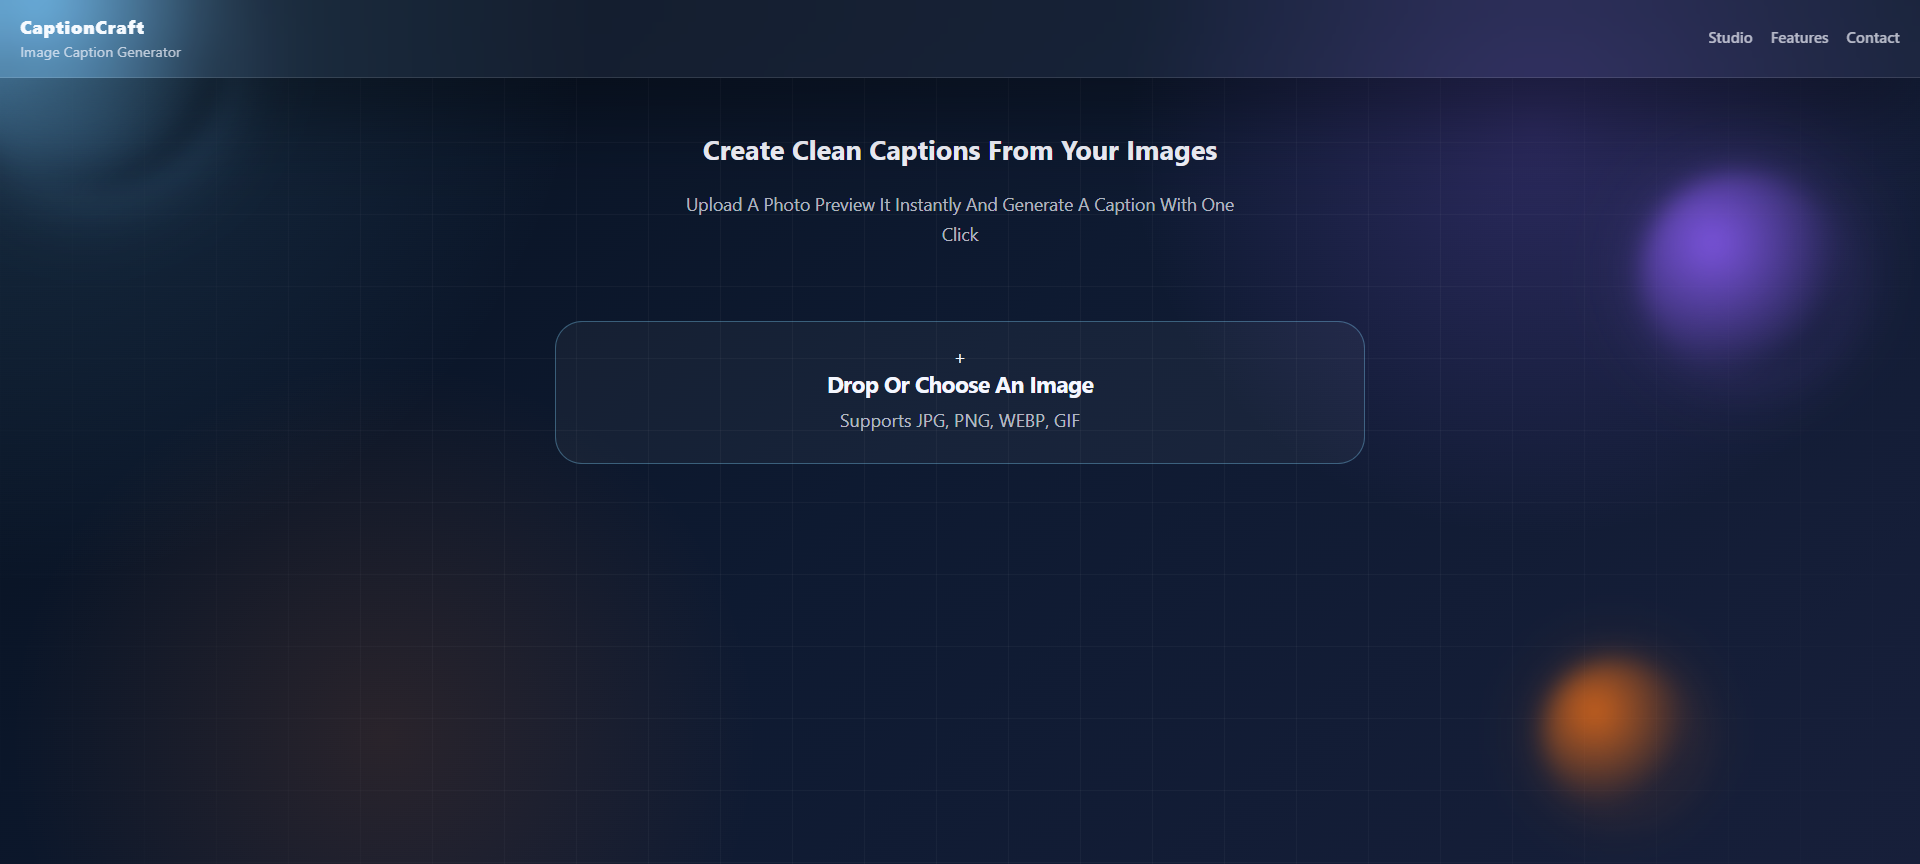
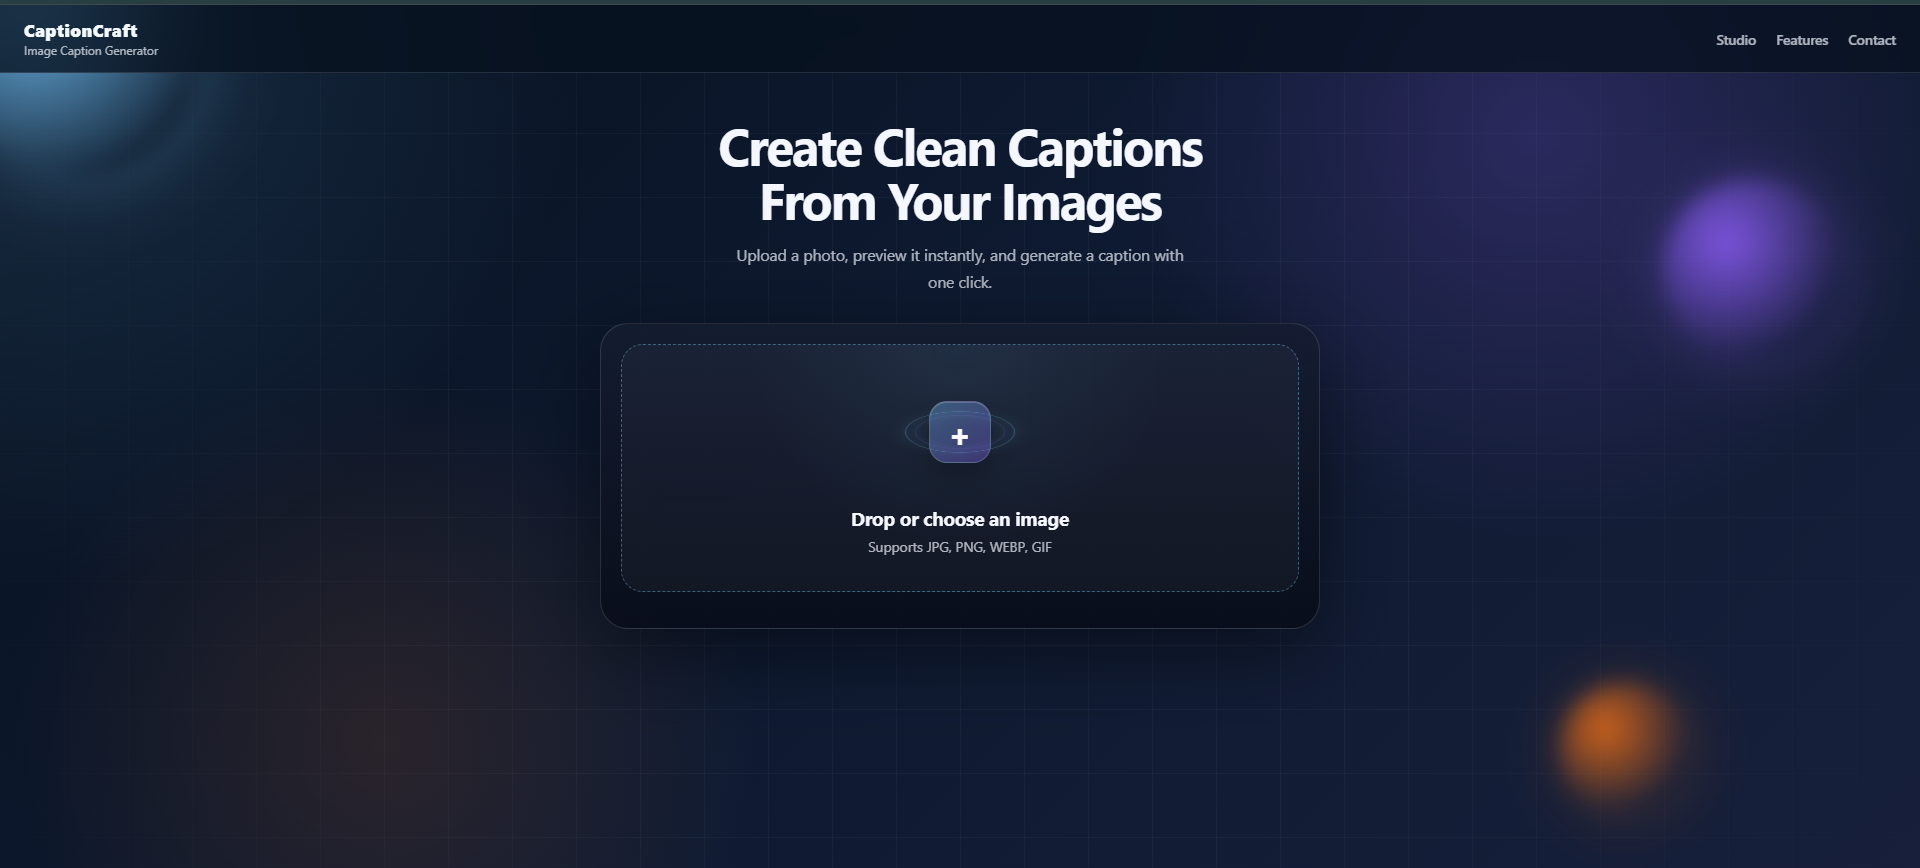
First commit: Initializing CaptionCraft

diff --git a/main.js b/main.js
@@ -1,5 +1,3 @@
-const HUGGINGFACE_URL = "https://api-inference.huggingface.co/models/Salesforce/blip-image-captioning-large";
-
 const fileInput   = document.getElementById("fileInput");
 const uploadArea  = document.getElementById("uploadArea");
 const previewWrap = document.getElementById("previewWrap");
@@ -12,11 +10,15 @@ const captionText = document.getElementById("captionText");
 const errorMsg    = document.getElementById("errorMsg");
 const spinner     = document.getElementById("spinner");
 const btnLabel    = document.getElementById("btnLabel");
+const copyBtn     = document.getElementById("copyBtn");
 
 let selectedFile = null;
 let currentCaption = "";
+const GEMINI_API_KEY = "AIzaSyBgd_LFD6b23YPNXi6SeuSJOraYEAlb9d8";
 
-/* ================= IMAGE UPLOAD ================= */
+generateBtn.addEventListener("click", generateCaption);
+resetBtn.addEventListener("click", resetApp);
+copyBtn.addEventListener("click", copyCaption);
 
 fileInput.addEventListener("change", function (e) {
   const file = e.target.files[0];
@@ -43,11 +45,14 @@ fileInput.addEventListener("change", function (e) {
   reader.readAsDataURL(file);
 });
 
-/* ================= GENERATE ================= */
-
 async function generateCaption() {
   if (!selectedFile) {
-    showError("Please choose an image first");
+    showError("Please Choose An Image First");
+    return;
+  }
+
+  if (GEMINI_API_KEY === "your_gemini_api_key_here") {
+    showError("Please Enter Your Gemini API key in main.js");
     return;
   }
 
@@ -56,60 +61,52 @@ async function generateCaption() {
   errorMsg.style.display = "none";
 
   try {
-    const raw = await requestHuggingFaceCaption(selectedFile);
-    const caption = normalizeCaption(raw);
+    const base64Image = await fileToBase64(selectedFile);
+    const base64Data = base64Image.split(",")[1];
+    const payload = {
+      contents: [{
+        parts: [
+          { text: "Write a short, engaging, clean and highly descriptive caption for this image. Just return the caption text." },
+          {
+            inlineData: {
+              mimeType: selectedFile.type,
+              data: base64Data
+            }
+          }
+        ]
+      }]
+    };
+    const response = await fetch(`https://generativelanguage.googleapis.com/v1beta/models/gemini-2.5-flash:generateContent?key=${GEMINI_API_KEY}`, {
+      method: "POST",
+      headers: { "Content-Type": "application/json" },
+      body: JSON.stringify(payload)
+    });
 
-    if (!caption) {
-      throw new Error("No caption returned.");
+    if (!response.ok) {
+      const errData = await response.json();
+      throw new Error(errData.error?.message || "Failed To Fetch From API");
     }
 
-    currentCaption = caption;
-    captionText.textContent = caption;
+    const data = await response.json();
+    const rawCaption = data.candidates?.[0]?.content?.parts?.[0]?.text;
+
+    if (!rawCaption) {
+      throw new Error("Caption Generation Returned Empty.");
+    }
+
+    const cleanCaption = normalizeCaption(rawCaption);
+
+    currentCaption = cleanCaption;
+    captionText.textContent = cleanCaption;
     resultBox.style.display = "block";
 
   } catch (err) {
     console.error(err);
-    showError(err.message || "Caption generation failed. API might be rate-limited.");
+    showError(err.message || "Failed To Generate Caption. Please Try Again.");
   } finally {
     setLoading(false);
   }
 }
-
-async function requestHuggingFaceCaption(file) {
-  // Hugging Face inference API without an auth token often works but can be rate-limited.
-  // It may also return 503 if the model is currently loading into server memory.
-  let response;
-  try {
-    response = await fetch(HUGGINGFACE_URL, {
-      method: "POST",
-      headers: {
-        "Content-Type": file.type
-      },
-      body: file
-    });
-  } catch(err) {
-      throw new Error("Network error. Could not connect to API.");
-  }
-
-  const data = await response.json();
-
-  if (!response.ok) {
-    if (response.status === 503 && data.estimated_time) {
-      throw new Error(`Model is loading. Please try again in ${Math.round(data.estimated_time)} seconds.`);
-    } else {
-      throw new Error(data.error || "Failed to generate caption.");
-    }
-  }
-
-  // Hugging Face typically returns an array for this pipeline: [{ "generated_text": "..." }]
-  if (Array.isArray(data) && data.length > 0 && data[0].generated_text) {
-    return data[0].generated_text;
-  }
-
-  return "";
-}
-
-/* ================= HELPERS ================= */
 
 function normalizeCaption(text) {
   return String(text || "")
@@ -133,9 +130,8 @@ function setLoading(on) {
 function copyCaption() {
   if (!currentCaption) return;
   navigator.clipboard.writeText(currentCaption).then(() => {
-    const btn = document.getElementById("copyBtn");
-    btn.textContent = "Copied!";
-    setTimeout(() => btn.textContent = "Copy", 1500);
+    copyBtn.textContent = "Copied!";
+    setTimeout(() => { copyBtn.textContent = "Copy"; }, 1500);
   });
 }
 
@@ -154,8 +150,11 @@ function resetApp() {
 
   fileInput.value = "";
 }
-
-// Bind functions from HTML event handlers if needed, or by direct listeners (since HTML used onclick)
-window.generateCaption = generateCaption;
-window.resetApp = resetApp;
-window.copyCaption = copyCaption;
+function fileToBase64(file) {
+  return new Promise((resolve, reject) => {
+    const reader = new FileReader();
+    reader.readAsDataURL(file);
+    reader.onload = () => resolve(reader.result);
+    reader.onerror = error => reject(error);
+  });
+}

diff --git a/style.css b/style.css
@@ -16,7 +16,7 @@ html {
   scroll-behavior: smooth;
 }
 
-/* ── SCROLLABLE body ───────────────────────────────────── */
+
 html, body {
   min-height: 100%;
   height: auto;
@@ -31,21 +31,20 @@ body {
     radial-gradient(circle at 80% 15%, rgba(139, 92, 246, 0.22), transparent 24%),
     radial-gradient(circle at 20% 85%, rgba(249, 115, 22, 0.12), transparent 22%),
     linear-gradient(135deg, var(--bg-a), var(--bg-b) 48%, var(--bg-c));
-  overflow-x: hidden;   /* allow vertical scroll, block horizontal */
+  overflow-x: hidden;  
   overflow-y: auto;
 }
 
-/* ── SCENE wrapper ─────────────────────────────────────── */
+
 .scene {
   position: relative;
   min-height: 100vh;
   padding: 90px 20px 20px;
-  overflow: visible;    /* must be visible so children can scroll */
+  overflow: visible;   
 }
-
 .scene::before {
   content: "";
-  position: fixed;      /* fixed so grid stays behind scroll */
+  position: fixed;     
   inset: 0;
   background-image:
     linear-gradient(rgba(255,255,255,0.035) 1px, transparent 1px),
@@ -56,7 +55,7 @@ body {
   z-index: 0;
 }
 
-/* ── ORBS ──────────────────────────────────────────────── */
+
 .orb {
   position: fixed;
   border-radius: 50%;
@@ -87,7 +86,7 @@ body {
   box-shadow: 0 0 50px rgba(249,115,22,0.24);
 }
 
-/* ── NAVBAR ────────────────────────────────────────────── */
+
 .navbar {
   position: fixed;
   top: 0; left: 0; right: 0;
@@ -136,7 +135,7 @@ body {
   color: #eef8ff;
 }
 
-/* ── MAIN LANDING COLUMN ───────────────────────────────── */
+
 .landing {
   position: relative;
   z-index: 1;
@@ -148,7 +147,7 @@ body {
   align-items: stretch;
 }
 
-/* ── HERO ──────────────────────────────────────────────── */
+
 .hero-panel {
   padding: 24px 8px 8px;
 }
@@ -172,7 +171,7 @@ body {
   line-height: 1.75;
 }
 
-/* ── STUDIO CARD ───────────────────────────────────────── */
+
 .studio-card {
   border-radius: 28px;
   border: 1px solid var(--line);
@@ -181,7 +180,7 @@ body {
   padding: 20px;
 }
 
-/* ── UPLOAD AREA ───────────────────────────────────────── */
+
 .upload-area {
   position: relative;
   padding: 32px 20px 36px;
@@ -216,7 +215,7 @@ body {
   z-index: 2;
 }
 
-/* ── UPLOAD ART (rings + core) ─────────────────────────── */
+
 .upload-art {
   position: relative;
   width: 110px;
@@ -278,7 +277,7 @@ body {
   font-size: 0.86rem;
 }
 
-/* ── PREVIEW ───────────────────────────────────────────── */
+
 .preview-wrap {
   display: none;
   margin-bottom: 4px;
@@ -306,7 +305,7 @@ body {
   text-transform: uppercase;
 }
 
-/* ── BUTTONS ───────────────────────────────────────────── */
+
 .btn-row {
   display: flex;
   gap: 12px;
@@ -353,7 +352,7 @@ body {
   transform: none;
 }
 
-/* spinner inside button */
+
 .btn-spinner {
   display: none;
   width: 14px;
@@ -369,7 +368,7 @@ body {
   to { transform: rotate(360deg); }
 }
 
-/* ── RESULT BOX ────────────────────────────────────────── */
+
 .result-box {
   display: none;
   margin-top: 16px;
@@ -412,7 +411,7 @@ body {
   background: rgba(255,255,255,0.13);
 }
 
-/* ── ERROR ─────────────────────────────────────────────── */
+
 .error {
   display: none;
   margin-top: 12px;
@@ -425,7 +424,7 @@ body {
   line-height: 1.6;
 }
 
-/* ── FEATURES ──────────────────────────────────────────── */
+
 .features {
   display: grid;
   grid-template-columns: repeat(3, 1fr);
@@ -468,7 +467,7 @@ body {
   line-height: 1.55;
 }
 
-/* ── FOOTER ────────────────────────────────────────────── */
+
 .site-footer {
   display: flex;
   justify-content: space-between;
@@ -489,8 +488,6 @@ body {
 .site-footer a:hover {
   color: #8ce0ff;
 }
-
-/* ── RESPONSIVE ────────────────────────────────────────── */
 @media (max-width: 720px) {
   .scene {
     padding: 82px 14px 14px;

diff --git a/index.html b/index.html
@@ -32,10 +32,7 @@
           Upload a photo, preview it instantly, and generate a caption with one click.
         </p>
       </section>
-
       <div class="studio-card">
-
-        <!-- Upload Zone -->
         <div class="upload-area" id="uploadArea">
           <input type="file" id="fileInput" accept="image/*" />
           <div class="upload-art">
@@ -46,38 +43,27 @@
           <h2>Drop or choose an image</h2>
           <p>Supports JPG, PNG, WEBP, GIF</p>
         </div>
-
-        <!-- Preview -->
         <div class="preview-wrap" id="previewWrap">
           <img id="preview" alt="Preview" />
           <div class="preview-meta" id="previewMeta"></div>
         </div>
-
-        <!-- Buttons -->
         <div class="btn-row">
-          <button id="generateBtn" type="button" onclick="generateCaption()">
+          <button id="generateBtn" type="button">
             <span class="btn-spinner" id="spinner"></span>
             <span id="btnLabel">Generate caption</span>
           </button>
-          <button id="resetBtn" type="button" onclick="resetApp()">Reset</button>
+          <button id="resetBtn" type="button">Reset</button>
         </div>
 
-        <!-- Result -->
         <div class="result-box" id="resultBox">
           <div class="result-label">Generated caption</div>
           <p id="captionText"></p>
-          <button class="copy-btn" id="copyBtn" onclick="copyCaption()">Copy</button>
+          <button class="copy-btn" id="copyBtn">Copy</button>
         </div>
-
-        <!-- Error -->
         <div class="error" id="errorMsg"></div>
-
       </div>
-
-      
-
     </main>
   </div>
-  <script src="main.js"></script>
+  <script type="module" src="main.js"></script>
 </body>
 </html>
